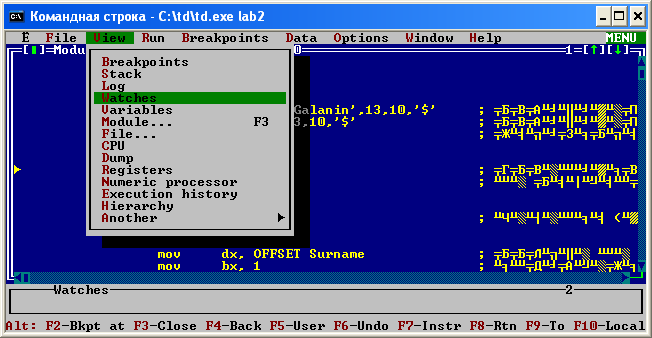
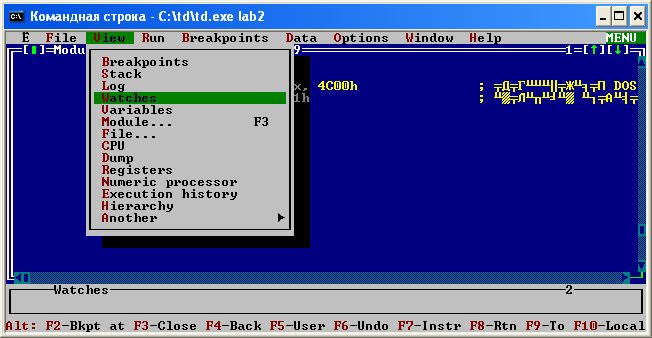
lab1/part2/Galanin_Pavel : Updated task 4.12

diff --git a/Reports/Galanin_Pavel/lab1/part2/rep/_INCLUDES/task-4-12/task-4-12.tex b/Reports/Galanin_Pavel/lab1/part2/rep/_INCLUDES/task-4-12/task-4-12.tex
@@ -8,7 +8,7 @@
 Рисунок~\ref{fig:task_4_12__1} (стр.~\pageref{fig:task_4_12__1}).
 Ввожу c клавиатуры \textbf{cx}.
 Рисунок~\ref{fig:task_4_12__2} (стр.~\pageref{fig:task_4_12__2}).
-Видим снизу в Watches коробке \textbf{cx word 0 (0h)}.
+Видим снизу в Watches коробке \textbf{cx word 38136 (94F8h)}.
 Рисунок~\ref{fig:task_4_12__3} (стр.~\pageref{fig:task_4_12__3}).
 
 \begin{figure}[!htp]
